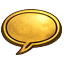
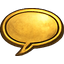
Fix pointer cursor grey box and reprocess all cursors at 64px
- Reprocess gold art deco pointer from high-res source with proper
  white background removal (was showing grey box due to semi-transparent
  white pixels baked into the old version)
- Reprocess Chat, Hand, Lock, Spyglass from high-res sources at 64x64
- Update cursor hotspots in cursors.ts for 64px size
- All cursors now have clean transparency with no background artifacts

https://claude.ai/code/session_01RHA9aryNMKDNQmt7wkenn1

diff --git a/src/game/utils/cursors.ts b/src/game/utils/cursors.ts
@@ -1,12 +1,12 @@
-// Custom PNG cursors matching the game's 1920s gold art style
-// Each cursor is a 48x48 PNG with a defined hotspot (x, y from top-left)
+// Custom PNG cursors matching the game's 1920s gold art deco style
+// Each cursor is a 64x64 PNG with a defined hotspot (x, y from top-left)
 
 const pngCursor = (filename: string, hotX: number, hotY: number): string =>
   `url("assets/ui/cursors/${filename}.png") ${hotX} ${hotY}, auto`;
 
 export const Cursors = {
   /** Default scene cursor — gold art deco pointer arrow */
-  default: pngCursor('pointer', 4, 2),
+  default: pngCursor('pointer', 6, 3),
 
   /** Inspecting clues and objects — gold spyglass */
   inspect: pngCursor('spyglass', 32, 32),
@@ -15,10 +15,10 @@ export const Cursors = {
   navigate: pngCursor('door', 32, 32),
 
   /** Talking to NPCs — gold speech bubble */
-  talk: pngCursor('chat', 32, 28),
+  talk: pngCursor('chat', 32, 32),
 
   /** Picking up items — gold grabbing hand */
-  pickup: pngCursor('grab', 32, 28),
+  pickup: pngCursor('grab', 32, 32),
 
   /** Locked objects — gold padlock */
   locked: pngCursor('lock', 32, 32),
